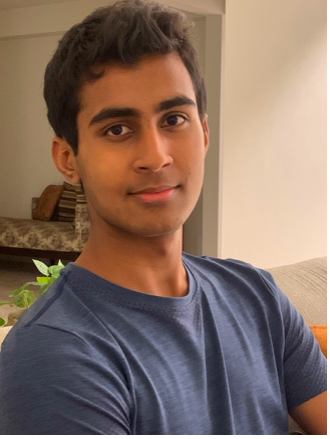
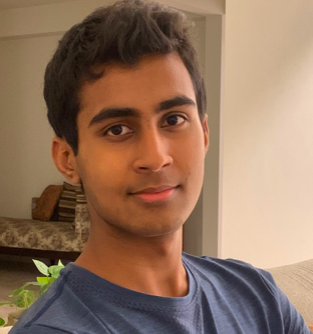
updated portrait images
scaled down to increase load times.

diff --git a/client/src/Pages/About/index.js b/client/src/Pages/About/index.js
@@ -48,7 +48,6 @@ const About = (params) => {
                         name="Shreiyas Saraf"
                         title="President"
                         img={Shreiyas}
-                        top="60%"
                     >
                         I don’t have a specific division functioning under me
                         but the team I handle is the Executive Board. We are
@@ -62,8 +61,6 @@ const About = (params) => {
                         name="Pratham Mehta"
                         title="Vice President & Director of Hacklytics"
                         img={Pratham}
-                        zoom
-                        top
                     >
                         The Hacklytics team works to organize and conduct DSGT’s
                         flagship hackathon every Spring. This is a great way to
@@ -75,8 +72,6 @@ const About = (params) => {
                         name="Krishi Manek"
                         title="Director of Projects"
                         img={Krishi}
-                        zoom
-                        top="40%"
                     >
                         The projects team consists of numerous focus groups
                         working on industry and research oriented data-science
@@ -101,6 +96,7 @@ const About = (params) => {
                         name="Jessi Chen"
                         title="Director of Content"
                         img={Jessi}
+                        wide
                     >
                         The content team manages the Bootcamp and Udemy courses,
                         where we teach our members core data science skills on a
@@ -117,9 +113,7 @@ const About = (params) => {
                         name="Reshma Gudla"
                         title="Director of Marketing"
                         img={Reshma}
-                        tall
-                        zoom
-                        top="-20%"
+                        wide
                     >
                         The marketing team focuses on social media initiatives,
                         graphic design, newsletters, outreach, and more to
@@ -131,8 +125,7 @@ const About = (params) => {
                         name="Devarsh Pandya"
                         title="Director of Internal Affairs"
                         img={Devarsh}
-                        zoom
-                        top="20%"
+                        wide
                     >
                         The Internal Affairs Team manages membership moderation
                         and develops ideas to improve the membership experience.
